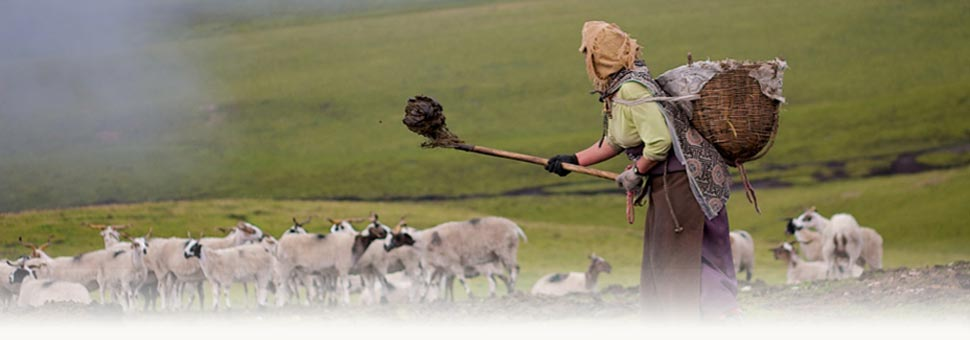
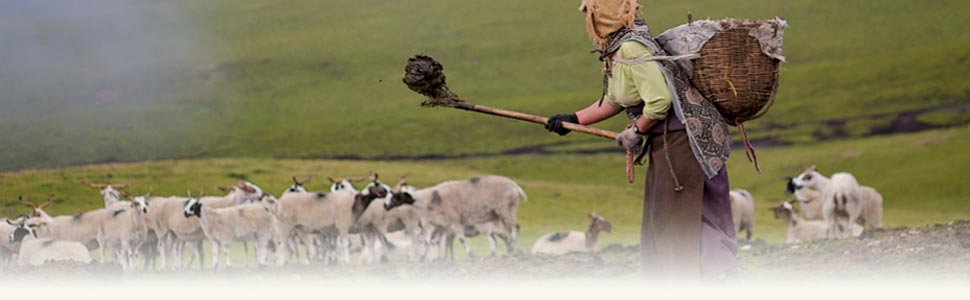
beijing-lhasa-tour

diff --git a/pool/templates/Beijing-Lhasa.html b/pool/templates/Beijing-Lhasa.html
@@ -14,9 +14,8 @@
 {% include 'header.html' %} <div class="bread"></div>
 <div class="allpage-wrap BL-color clearfix">
 	<div class="banner">
-		<img src="/imagesnew/sample/beijing.jpg" width="970" height="340">
-		<img src="/imagesnew/sample/nepal-1.png" width="970" height="340">
-		<img src="/imagesnew/sample/nepal-2.png" width="970" height="340">
+		<img src="/imagesnew/sample/beijing.jpg" width="970" height="300">
+		<img src="/imagesnew/sample/beijing3.jpg" width="970" height="300">
 	</div>
 	<div class="one-col">
 		<h1>Beijing Tibet Tours: including Beijing Lhasa train</h1>

diff --git a/pool/assets/styles/tour-index.css b/pool/assets/styles/tour-index.css
@@ -480,7 +480,7 @@
 
 /* @Beijing-Lhasa Tour */
 .banner {
-	height: 340px;
+	height: 300px;
 	position: relative;
 }
 
@@ -493,7 +493,7 @@
 	box-shadow: 0 0 5px #666666;
 }
 .BL-color {
-	background: #dcd0a8 url("/imagesnew/sample/beijing-lhasa-bg.png") repeat-x 0 340px;
+	background: #dcd0a8 url("/imagesnew/sample/beijing-lhasa-bg.png") repeat-x 0 300px;
 }
 .one-col {
 	width: 930px;
